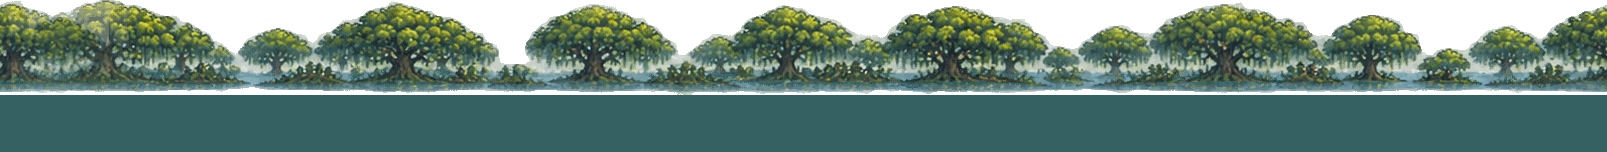
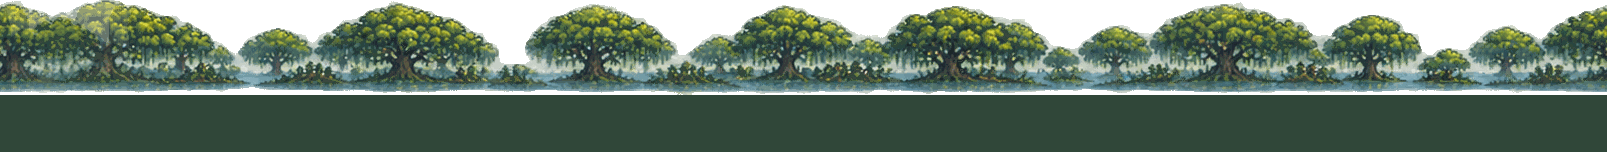
Fill the holes in the scenery: dense jungle thicket and undergrowth, a second willow row and reeds in the marsh, Brasswick skyline down behind the arches
Claude-Session: https://claude.ai/code/session_01MtQBiqbKCuzkutaTWsEgBr

diff --git a/src/config/display.js b/src/config/display.js
@@ -59,12 +59,15 @@ export const PARALLAX_LAYERS = [
   { key: 'clouds', factor: 0.04, drift: 8, y: 20, height: 270, depth: DEPTH.clouds },
   { key: 'mountains', factor: 0.08, y: 226, height: 215, depth: DEPTH.mountains },
   { key: 'hills', factor: 0.16, y: 330, height: 150, depth: DEPTH.hills },
+  // Dense mid-distance layers, empty unless an area sets them (e.g. the jungle).
+  { key: 'thicket', factor: 0.22, y: 575 - 8, height: 8, depth: DEPTH.hills + 0.25 },
   { key: 'trees', factor: 0.3, y: 376, height: 198, depth: DEPTH.trees },
   { key: 'village', factor: 0.5, y: 372, height: 207, depth: DEPTH.village },
   // Grass bank under the line (its top sits just below the rail so the sleepers rest in the grass).
   { key: 'ground', factor: 1, y: RAIL_Y + 6, height: 1500, tileHeight: 168.6, depth: DEPTH.ground },
   // The rails, positioned so the rail's top edge is RAIL_Y.
   { key: 'rails', factor: 1, y: RAIL_Y - TRAIN_ART.rails.railTop, height: TRAIN_ART.rails.height, depth: DEPTH.track },
+  { key: 'undergrowth', factor: 0.62, y: 568 - 8, height: 8, depth: DEPTH.village + 0.05 },
   // Drifting mist (empty unless an area sets it): among the trees, and low over the line.
   { key: 'fog-back', factor: 0.4, drift: 7, y: 575 - 8, height: 8, depth: DEPTH.village + 0.1 },
   { key: 'fog-front', factor: 1.2, drift: 16, y: 640 - 8, height: 8, depth: DEPTH.smoke + 0.5 },

diff --git a/src/config/assets.js b/src/config/assets.js
@@ -23,6 +23,8 @@ export const IMAGES = {
   railgrass: 'sprites/blank.png',
   'foreground-trees': 'sprites/blank.png',
   'fog-back': 'sprites/blank.png',
+  thicket: 'sprites/blank.png',
+  undergrowth: 'sprites/blank.png',
   'fog-front': 'sprites/blank.png',
   'foreground-back': 'backgrounds/foreground-back.png',
   foreground: 'backgrounds/foreground.png',

diff --git a/scripts/slice-areas.py b/scripts/slice-areas.py
@@ -28,6 +28,7 @@ H_MOUNTAINS, H_HILLS, H_TREES, H_VILLAGE = 185, 120, 190, 150
 HILLS_PAD = 0.6  # hills continue down to the line in their bottom colour, so gaps never show sky
 FG_K, FG_BACK_K, BANK_K = 0.42, 0.36, 0.3
 RAILGRASS_H, FGTREES_H = 30, 440
+THICKET_H, UNDERGROWTH_H = 165, 70  # optional mid-distance layers (see display.js)
 RAIL_Y = 560  # design y of the rail top (src/config/display.js)
 
 
@@ -222,6 +223,10 @@ AREAS = {
         'fg': ('jungle-foreground-rows.png', 200, (8, 199), (208, 370)),
         'fg_clear': True,  # the sheet's white backdrop clings round the leaves
         'fg_drop': {'front': [(775, 862)], 'back': [(1495, 1995)]},  # wooden posts and fences
+        # Dense jungle: tree-line clumps packed edge to edge behind the trees, and ferns,
+        # bushes and flowers crowding the line.
+        'thicket': lambda: scatter(S('jungle-kit-d.png'), [(0, 305, 1774, 439)], 3072, (-90, -40), grounded=14, min_w=80),
+        'undergrowth': lambda: scatter(S('jungle-trees.png'), [(0, 494, 2172, 701)], 4096, (-40, 10), min_w=60, seed=3),
         # Big trees that sweep past in front of the train.
         'bank_over_rails': 8,  # the jungle bank's plants grow up in front of the track
         'fgtrees': lambda: solid(scatter(S('jungle-kit.png'), [(0, 290, 1774, 464)], 6144, (700, 1600), min_w=120,
@@ -237,9 +242,13 @@ AREAS = {
         'fog': True,
         'mountains': lambda: scatter(S(MARSH, 150), [(0, 6, 1774, 267)], 2048, (0, 40), grounded=14, min_w=200),
         'hills': lambda: strip(S(MARSH, 150), (0, 274, 1774, 369)),
+        'hills_pad': 'middle',  # fill below the tree line with its own green, not the pale water edge
         'trees': lambda: scatter(S(MARSH, 150), [(0, 371, 1774, 507)], 2048, (-20, 20)),
         'village': lambda: scatter(S(MARSH, 150), [(0, 512, 1774, 659)], 4096, (160, 520)),
         'bank': lambda: bank(S('marsh-embankment.png'), (0, 165, 2172, 706)),
+        # A second, denser row of willows behind the first, and reeds along the line.
+        'thicket': lambda: scatter(S('marsh-kit-b.png', 150), [(0, 345, 1774, 452)], 3072, (-70, -30), min_w=60, seed=2),
+        'undergrowth': lambda: scatter(S('marsh-kit-b.png', 150), [(0, 630, 1060, 701)], 4096, (-10, 40), min_w=40, seed=5),
         'fg': ('marsh-foreground-rows.png', None, (6, 169), (184, 308)),
         'stops': [('marsh-train-kit.png', (270, 367, 1536, 853),
                    {'coalDepot': 3, 'mine': 4, 'workshop': 8, 'town': 9, 'waterTower': 16}, 'label')],
@@ -262,6 +271,7 @@ AREAS = {
     },
     'town': {
         'name': 'Brasswick',
+        'mountains_pad': 0.6,  # continue the skyline down so no sky shows through arches and gaps
         'mountains': lambda: strip(S(TOWN), (0, 123, 2172, 231)),
         'hills': lambda: scatter(S(TOWN), [(0, 250, 2172, 326)], 2048, (-30, 0), overlap=10),
         'trees': lambda: strip(S(TOWN), (0, 331, 2172, 503)),
@@ -331,6 +341,12 @@ def main():
 
         if 'railgrass' in a:
             layers['railgrass'] = layer(f'{area}-railgrass', a['railgrass'](), RAILGRASS_H)
+        # Dense mid-distance layers: a thicket behind the trees (no gaps down to the line) and
+        # undergrowth along the line in front of the village.
+        if 'thicket' in a:
+            layers['thicket'] = layer(f'{area}-thicket', a['thicket'](), THICKET_H)
+        if 'undergrowth' in a:
+            layers['undergrowth'] = layer(f'{area}-undergrowth', a['undergrowth'](), UNDERGROWTH_H)
         if 'fgtrees' in a:
             layers['foreground-trees'] = layer(f'{area}-fgtrees', a['fgtrees'](), FGTREES_H)
         if a.get('fog'):
